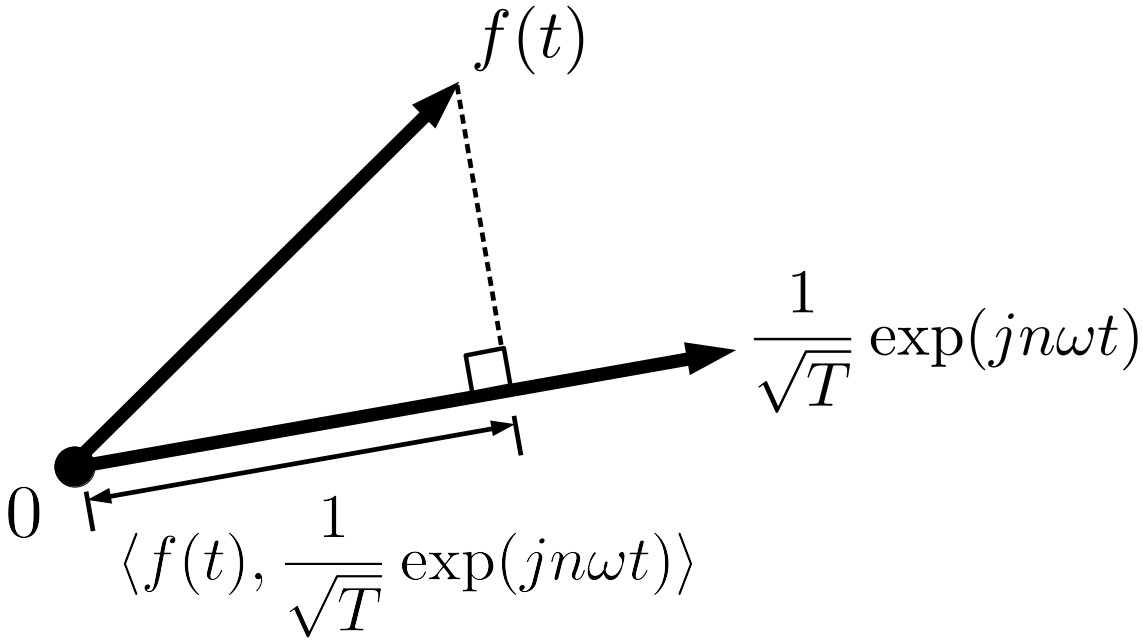
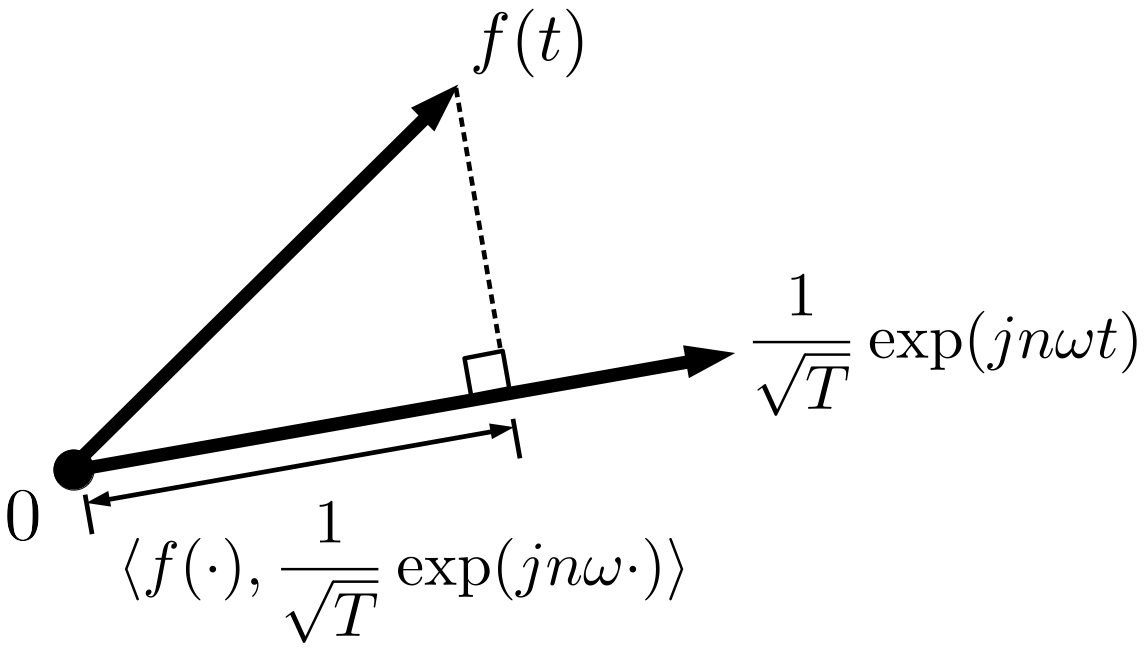
use cdot to display integral variable.

diff --git a/slide/introduction_to_wavelet.tex b/slide/introduction_to_wavelet.tex
@@ -91,11 +91,15 @@
 }
 
 \title[ウェーブレットおきもち -- 導入と実装 --]{ウェーブレットおきもち\\-- 導入と実装 --}
-\author[aikiriao]{Available at: \qrcode[hyperlink,height=20mm]{https://speakerdeck.com/aikiriao/ueburetutookimotijiang-zuo}\\ Source: {\scriptsize \myurl{https://github.com/aikiriao/introduction_to_wavelet}}}
+\author[aikiriao]{aikiriao}
 \date{\today}
 
 \begin{document}
-\maketitle
+\begin{frame}[c]
+  \titlepage
+  \centering
+  Available at: \qrcode[hyperlink,height=20mm]{https://speakerdeck.com/aikiriao/ueburetutookimotijiang-zuo}\\ Source: {\scriptsize \myurl{https://github.com/aikiriao/introduction_to_wavelet}}
+\end{frame}
 
 \begin{frame}[c]
 \frametitle{もくじ}
@@ -119,10 +123,10 @@
     \frametitle{関数の内積}
     2関数$f,g$の内積を次で定める：
     \begin{align}
-        \innprod{f(x)}{g(x)} &:= \int_{a}^{b} f(x) \roverline{g(x)} \mathrm{d}x \label{eq:function_innerprod} \\
+        \innprod{f(\cdot)}{g(\cdot)} &:= \int_{a}^{b} f(x) \roverline{g(x)} \mathrm{d}x \label{eq:function_innerprod} \\
         \roverline{g(x)} &: \text{$g(x)$の複素共役} \nonumber
     \end{align}
-    積分範囲$[a,b]$は対象により変わる．積分変数を省略して$\innprod{f}{g}$とも書く．考え方は，有限次元ベクトルと同じ：
+    積分範囲$[a,b]$は対象により変わる．省略して$\innprod{f}{g}$とも書く．考え方は，有限次元ベクトルと同じ：
     \begin{align*}
         \innprod{\ve{v}}{\ve{w}} := \sum_{n} (\ve{v})_{n} \roverline{(\ve{w})_{n}}
     \end{align*}
@@ -175,7 +179,7 @@
     \frametitle{関数空間の例：フーリエ級数}
     フーリエ係数$c_{n}$は$\exp$との内積の定数倍
     \begin{align}
-        c_{n} = \frac{1}{\sqrt{T}} \innprod{f(t)}{\frac{1}{\sqrt{T}}\exp(jn\omega t)}
+        c_{n} = \frac{1}{\sqrt{T}} \innprod{f(\cdot)}{\frac{1}{\sqrt{T}}\exp(jn\omega \cdot)}
     \end{align}
     だから，$n\omega$の周波数成分との類似度に相当
     \begin{figure}
@@ -284,7 +288,7 @@
     関数$f$の連続ウェーブレット変換$F(a,b)$は，$f$と$\psi_{a,b}$の内積によって得られる：
     \begin{align}
         F(a,b) &:= \int_{-\infty}^{\infty} f(t) \roverline{\psi_{a,b}(t)} \mathrm{d}t \\
-        &= \innprod{f(t)}{\psi_{a,b}(t)} \nonumber
+        &= \innprod{f(\cdot)}{\psi_{a,b}(\cdot)} \nonumber
     \end{align}
     変換先はスケール$a$とシフト$b$の2軸（スケログラムという）
     \begin{itemize}
@@ -380,7 +384,7 @@
             \begin{itemize}
                 \item[M\ref{itm:mra1}お気持ち] スケーリング関数$\phi$は整数シフトに関して正規直交基底となることを要求：
                     \begin{align*}
-                        \innprod{\phi(t - n)}{\phi(t - m)} = \delta_{nm}
+                        \innprod{\phi(\cdot - n)}{\phi(\cdot - m)} = \delta_{nm}
                     \end{align*}
                     (M\ref{itm:mra1})が成立すれば，任意の$m,p,q \in \mathbb{Z}$に対し，
                     \footnotesize
@@ -440,7 +444,7 @@
         \item $a,b \in \mathbb{Z}$に対して，
             \small
             \begin{align*}
-                & \innprod{\phi_{H}(t-a)}{\phi_{H}(t-b)} = \int_{-\infty}^{\infty} \phi_{H}(t-a) \roverline{\phi_{H}(t-b)} \mathrm{d} t \\
+                & \innprod{\phi_{H}(\cdot-a)}{\phi_{H}(\cdot-b)} = \int_{-\infty}^{\infty} \phi_{H}(t-a) \roverline{\phi_{H}(t-b)} \mathrm{d} t \\
                 &= \int_{-\infty}^{\infty} \phi_{H}(s) \phi_{H}(s+a-b) \mathrm{d} s \quad (s = t - a) \\
                 &= \delta_{ab}
             \end{align*}
@@ -495,7 +499,7 @@
         \item \small
             $\displaystyle\lim_{m\to\infty} \phi_{Hm,0}(t) = \delta(t)$（$\delta(t)$：インパルス関数）の観察から，$\displaystyle\lim_{m\to\infty}V_{m}$はインパルス関数を時間シフトした集合となる．任意の$f \in L_{2}(\mathbb{R})$，$s \in \mathbb{R}$に対して$\delta(t - s) \in \displaystyle\lim_{m\to\infty}V_{m}$が存在して，
             \begin{align*}
-                \innprod{f(t)}{\delta(t - s)} = \int_{-\infty}^{\infty} f(t) \delta(t - s) \mathrm{d} t = f(s)
+                \innprod{f(\cdot)}{\delta(\cdot - s)} = \int_{-\infty}^{\infty} f(t) \delta(t - s) \mathrm{d} t = f(s)
             \end{align*}
             だから，$f \in \displaystyle\lim_{m\to\infty}V_{m}$で$L_{2}(\mathbb{R}) \subset \displaystyle\lim_{m\to\infty}V_{m}$．一方，$\phi_{Hm,n} \in L_{2}(\mathbb{R})$だから$L_{2}(\mathbb{R})\supset \displaystyle\lim_{m\to\infty}V_{m}$．従って，$\displaystyle\lim_{m\to\infty}V_{m} = L_{2}(\mathbb{R})$．
             \normalsize
@@ -1137,7 +1141,7 @@
     \scriptsize
     （証明）収束定理より任意のフーリエ級数展開可能な関数を表現可能だから，基底系をなすことは示されている．次に直交性を示す．$n,m \in \mathbb{Z}$に対して1周期分の内積をとると，
     \begin{align*}
-        & \innprod{\frac{1}{\sqrt{T}}\exp(jn\omega t)}{\frac{1}{\sqrt{T}}\exp(jm\omega t)} = \frac{1}{T} \int_{-T/2}^{T/2} \exp(jn\omega t) \exp(-jm\omega t) \mathrm{d}t \\
+        & \innprod{\frac{1}{\sqrt{T}}\exp(jn\omega \cdot)}{\frac{1}{\sqrt{T}}\exp(jm\omega \cdot)} = \frac{1}{T} \int_{-T/2}^{T/2} \exp(jn\omega t) \exp(-jm\omega t) \mathrm{d}t \\
         &= \frac{1}{T} \left[ \frac{\exp\left\{ j(n - m)2\pi t / T \right\}}{j(n - m)2\pi/T} \right]_{-T/2}^{T/2} \quad (\because \omega = 2\pi / T) \\
         &= \frac{1}{\pi} \frac{\exp\left\{ j(n - m)\pi \right\} - \exp\left\{ -j(n - m)\pi \right\}}{j2(n - m)} = \frac{1}{\pi} \frac{\sin\left\{ (n - m) \pi \right\}}{n - m} \quad \text{（$\because$ オイラーの公式）} \\
         &= \delta_{nm}  \quad \text{（$\delta$：クロネッカーのデルタ）}
@@ -1151,11 +1155,11 @@
 \begin{frame}[c]
     \frametitle{三角関数の完全性}
     \scriptsize
-    最後に，これ以外の基底はないことを背理法により示す．「$\left\{ \exp(jn\omega t) | n \in \mathbb{Z} \right\}$の全てに直交する連続関数基底$h(t)$が存在する」と仮定する．仮定により$\innprod{h(t)}{\exp(jn\omega t)} = 0$が成立するが，$h(t) = 0$は空間を生成しないゼロベクトルのため，$h(t) \neq 0$で考える．
+    最後に，これ以外の基底はないことを背理法により示す．「$\left\{ \exp(jn\omega t) | n \in \mathbb{Z} \right\}$の全てに直交する連続関数基底$h(t)$が存在する」と仮定する．仮定により$\innprod{h(\cdot)}{\exp(jn\omega \cdot)} = 0$が成立するが，$h(t) = 0$は空間を生成しないゼロベクトルのため，$h(t) \neq 0$で考える．
     \\~\
     $h(t)$のフーリエ級数展開を考える．$n$次のフーリエ係数は，
     \begin{align*}
-        c_{n} &= \frac{1}{T} \int_{-\frac{T}{2}}^{\frac{T}{2}} h(t) \exp(-jn\omega t) \mathrm{d} t = \frac{1}{T} \innprod{h(t)}{\exp(jn\omega t)} = 0 \quad \text{（$\because$ $h(t)$の仮定）}
+        c_{n} &= \frac{1}{T} \int_{-\frac{T}{2}}^{\frac{T}{2}} h(t) \exp(-jn\omega t) \mathrm{d} t = \frac{1}{T} \innprod{h(\cdot)}{\exp(jn\omega \cdot)} = 0 \quad \text{（$\because$ $h(t)$の仮定）}
     \end{align*}
     だから，$h(t)$の$N$次までのフーリエ級数近似$S_{N}(t)$は，
     \begin{align*}
@@ -1267,7 +1271,7 @@
     \scriptsize
     （証明）1.は，任意の$n,m \in \mathbb{Z}$に対して，
     \begin{align*}
-        \innprod{f(t - n)&}{g(t - m)} = \int_{-\infty}^{\infty} f(t - n) \roverline{g(t - m)} \mathrm{d} t \\
+        \innprod{f(\cdot - n)&}{g(\cdot - m)} = \int_{-\infty}^{\infty} f(t - n) \roverline{g(t - m)} \mathrm{d} t \\
         &= \frac{1}{2\pi} \int_{-\infty}^{\infty} \ft{f(t - n)} \roverline{\ft{g(t - m)}} \mathrm{d} \omega \quad \text{（$\because$ パーセバルの等式）} \\
         &= \frac{1}{2\pi} \int_{-\infty}^{\infty} F(\omega)\exp(-jn\omega) \roverline{G(\omega)\exp(-jm\omega)} \mathrm{d} \omega \quad \text{（$\because$ 時間シフトのフーリエ変換）} \\
         &= \frac{1}{2\pi} \int_{-\infty}^{\infty} F(\omega)\roverline{G(\omega)} \exp[-j(n-m)\omega] \mathrm{d} \omega \\
@@ -1283,14 +1287,14 @@
     \scriptsize
     2.は，1.の証明において$f=g$とすれば，
     \begin{align*}
-        \innprod{f(t - n)&}{f(t - m)} = \int_{-\infty}^{\infty} f(t - n) \roverline{f(t - m)} \mathrm{d} t \\
+        \innprod{f(\cdot - n)&}{f(\cdot - m)} = \int_{-\infty}^{\infty} f(t - n) \roverline{f(t - m)} \mathrm{d} t \\
         &= \frac{1}{2\pi} \int_{-\infty}^{\infty} F(\omega)\roverline{F(\omega)} \exp[-j(n-m)\omega] \mathrm{d} \omega \\
         &= \frac{1}{2\pi} \int_{-\pi}^{\pi} \left\{ \sum_{k} |F(\omega + 2\pi k)|^{2} \right\} \exp[-j(n-m)\omega] \mathrm{d} \omega \\
         &= \delta_{nm}
     \end{align*}
     となり，この等式は$\sum_{k} |F(\omega + 2\pi k)|^{2} = 1$のとき，かつそのときに限り成立する．実際，
     \begin{align*}
-        \innprod{f(t - n)}{f(t - m)} &= \frac{1}{2\pi} \int_{-\pi}^{\pi} \exp[-j(n-m)\omega] \mathrm{d} \omega = \frac{1}{2\pi} \left[ -\frac{\exp[-j(n-m)\omega]}{j(n-m)} \right]_{-\pi}^{\pi} \\
+        \innprod{f(\cdot - n)}{f(\cdot - m)} &= \frac{1}{2\pi} \int_{-\pi}^{\pi} \exp[-j(n-m)\omega] \mathrm{d} \omega = \frac{1}{2\pi} \left[ -\frac{\exp[-j(n-m)\omega]}{j(n-m)} \right]_{-\pi}^{\pi} \\
         &= \frac{1}{2\pi} \left[ -\frac{\exp[-j(n-m)\omega]}{j(n-m)} \right]_{-\pi}^{\pi} = \frac{1}{\pi} \frac{\sin\left\{ (n-m) \pi \right\} }{n-m}
     \end{align*}
     から，$n=m$のときと$n\neq m$のときで場合分けすれば確認できる（$n=m$のときは$x=n-m$として$x\to0$を考える）．よって，2.は示された．
